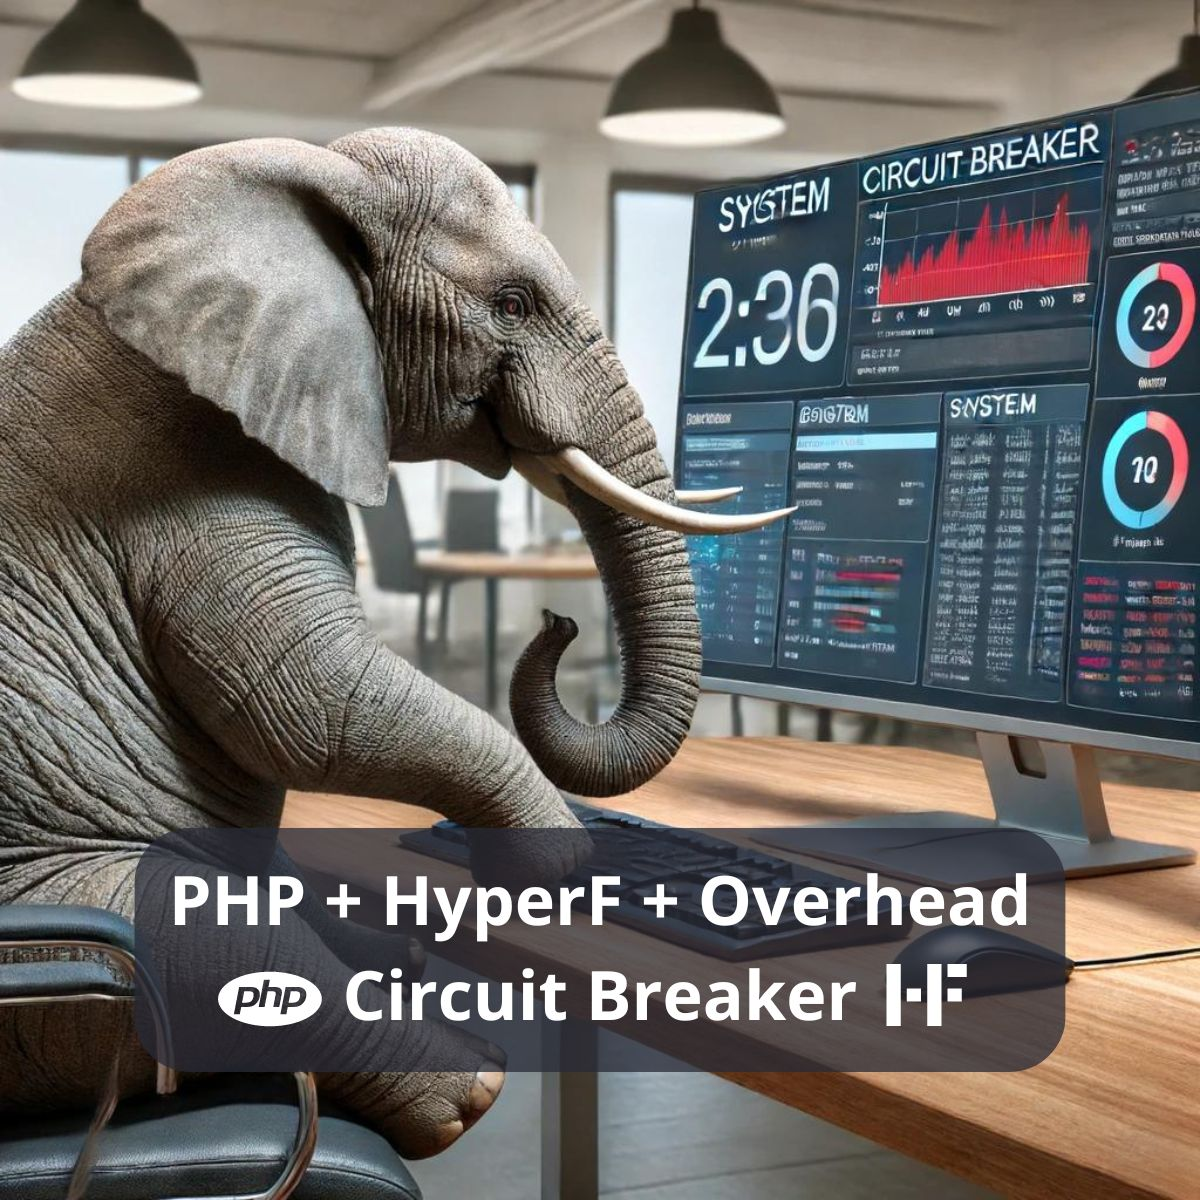
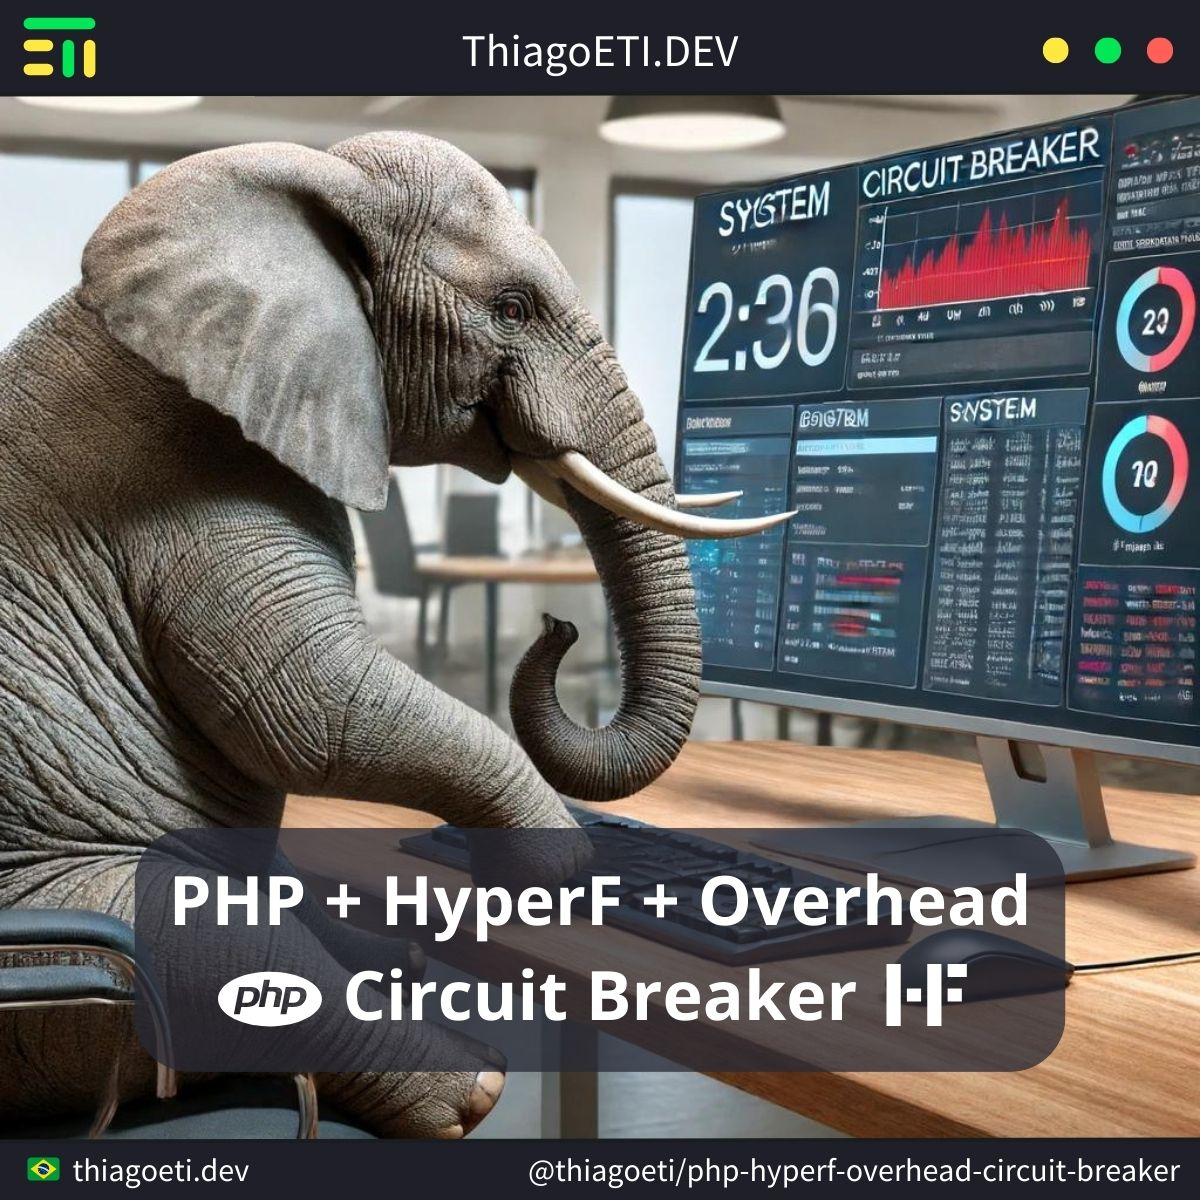
Publish

diff --git a/README.md b/README.md
@@ -15,7 +15,7 @@ This test execute calc of Fibonacci to show how HyperF behaves with overload, af
 composer create-project hyperf/hyperf-skeleton "project"
 ```
 
-#### Install - Watcher
+#### Watcher - Install
 
 ```console
 composer require hyperf/watcher --dev
@@ -36,7 +36,7 @@ Set a time limit of one minute just for testing.
 set_time_limit(60);
 ```
 
-> Path: project/bin/hyperf.php
+> path: /project/bin/hyperf.php
 
 ## HyperF - APP
 
@@ -53,7 +53,7 @@ return [
 ];
 ```
 
-> Path: project/config/autoload/server.php
+> path: /project/config/autoload/server.php
 
 #### APP - Router
 
@@ -62,7 +62,7 @@ Router::addRoute(['GET', 'POST'], '/stress', 'App\Controller\ControllerOverhead@
 Router::addRoute(['GET', 'POST'], '/data', 'App\Controller\ControllerOverhead@data');
 ```
 
-> Path: project/config/routes.php
+> path: /project/config/routes.php
 
 #### APP - Controller - Overhead
 
@@ -103,7 +103,7 @@ class ControllerOverhead
 }
 ```
 
-> Path: project/app/Controller/ControllerOverhead.php
+> path: /project/app/Controller/ControllerOverhead.php
 
 ## Execute
 
